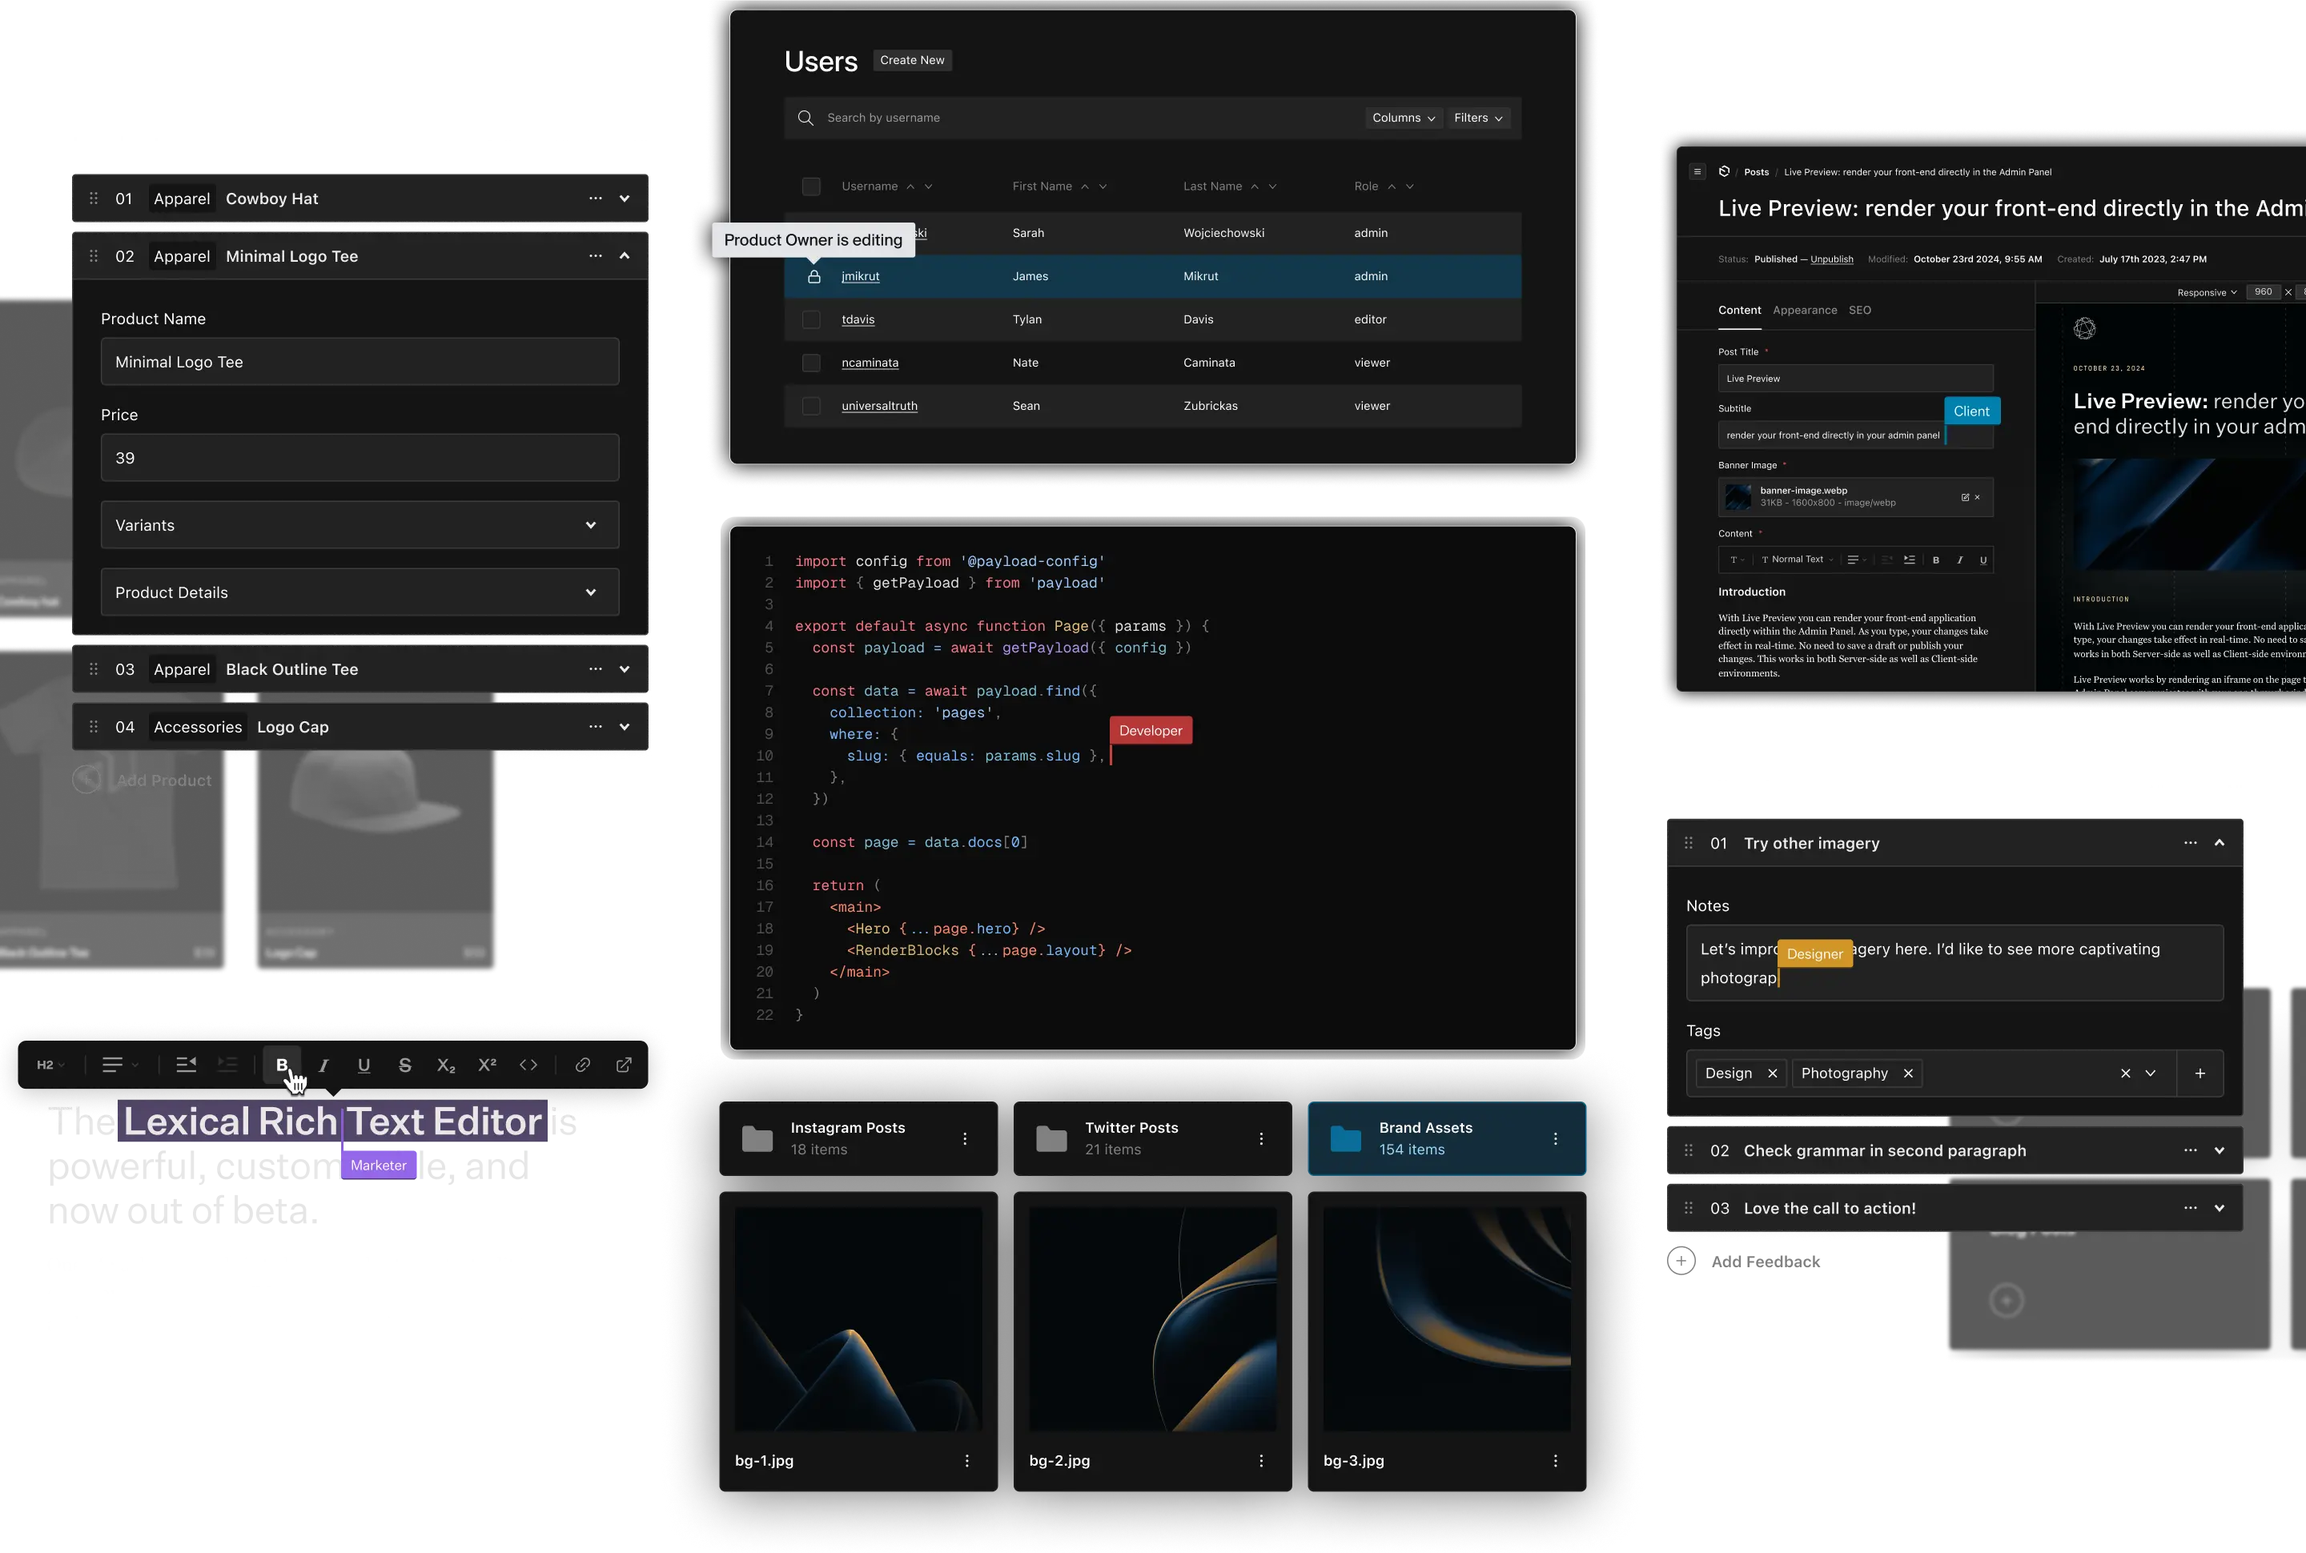
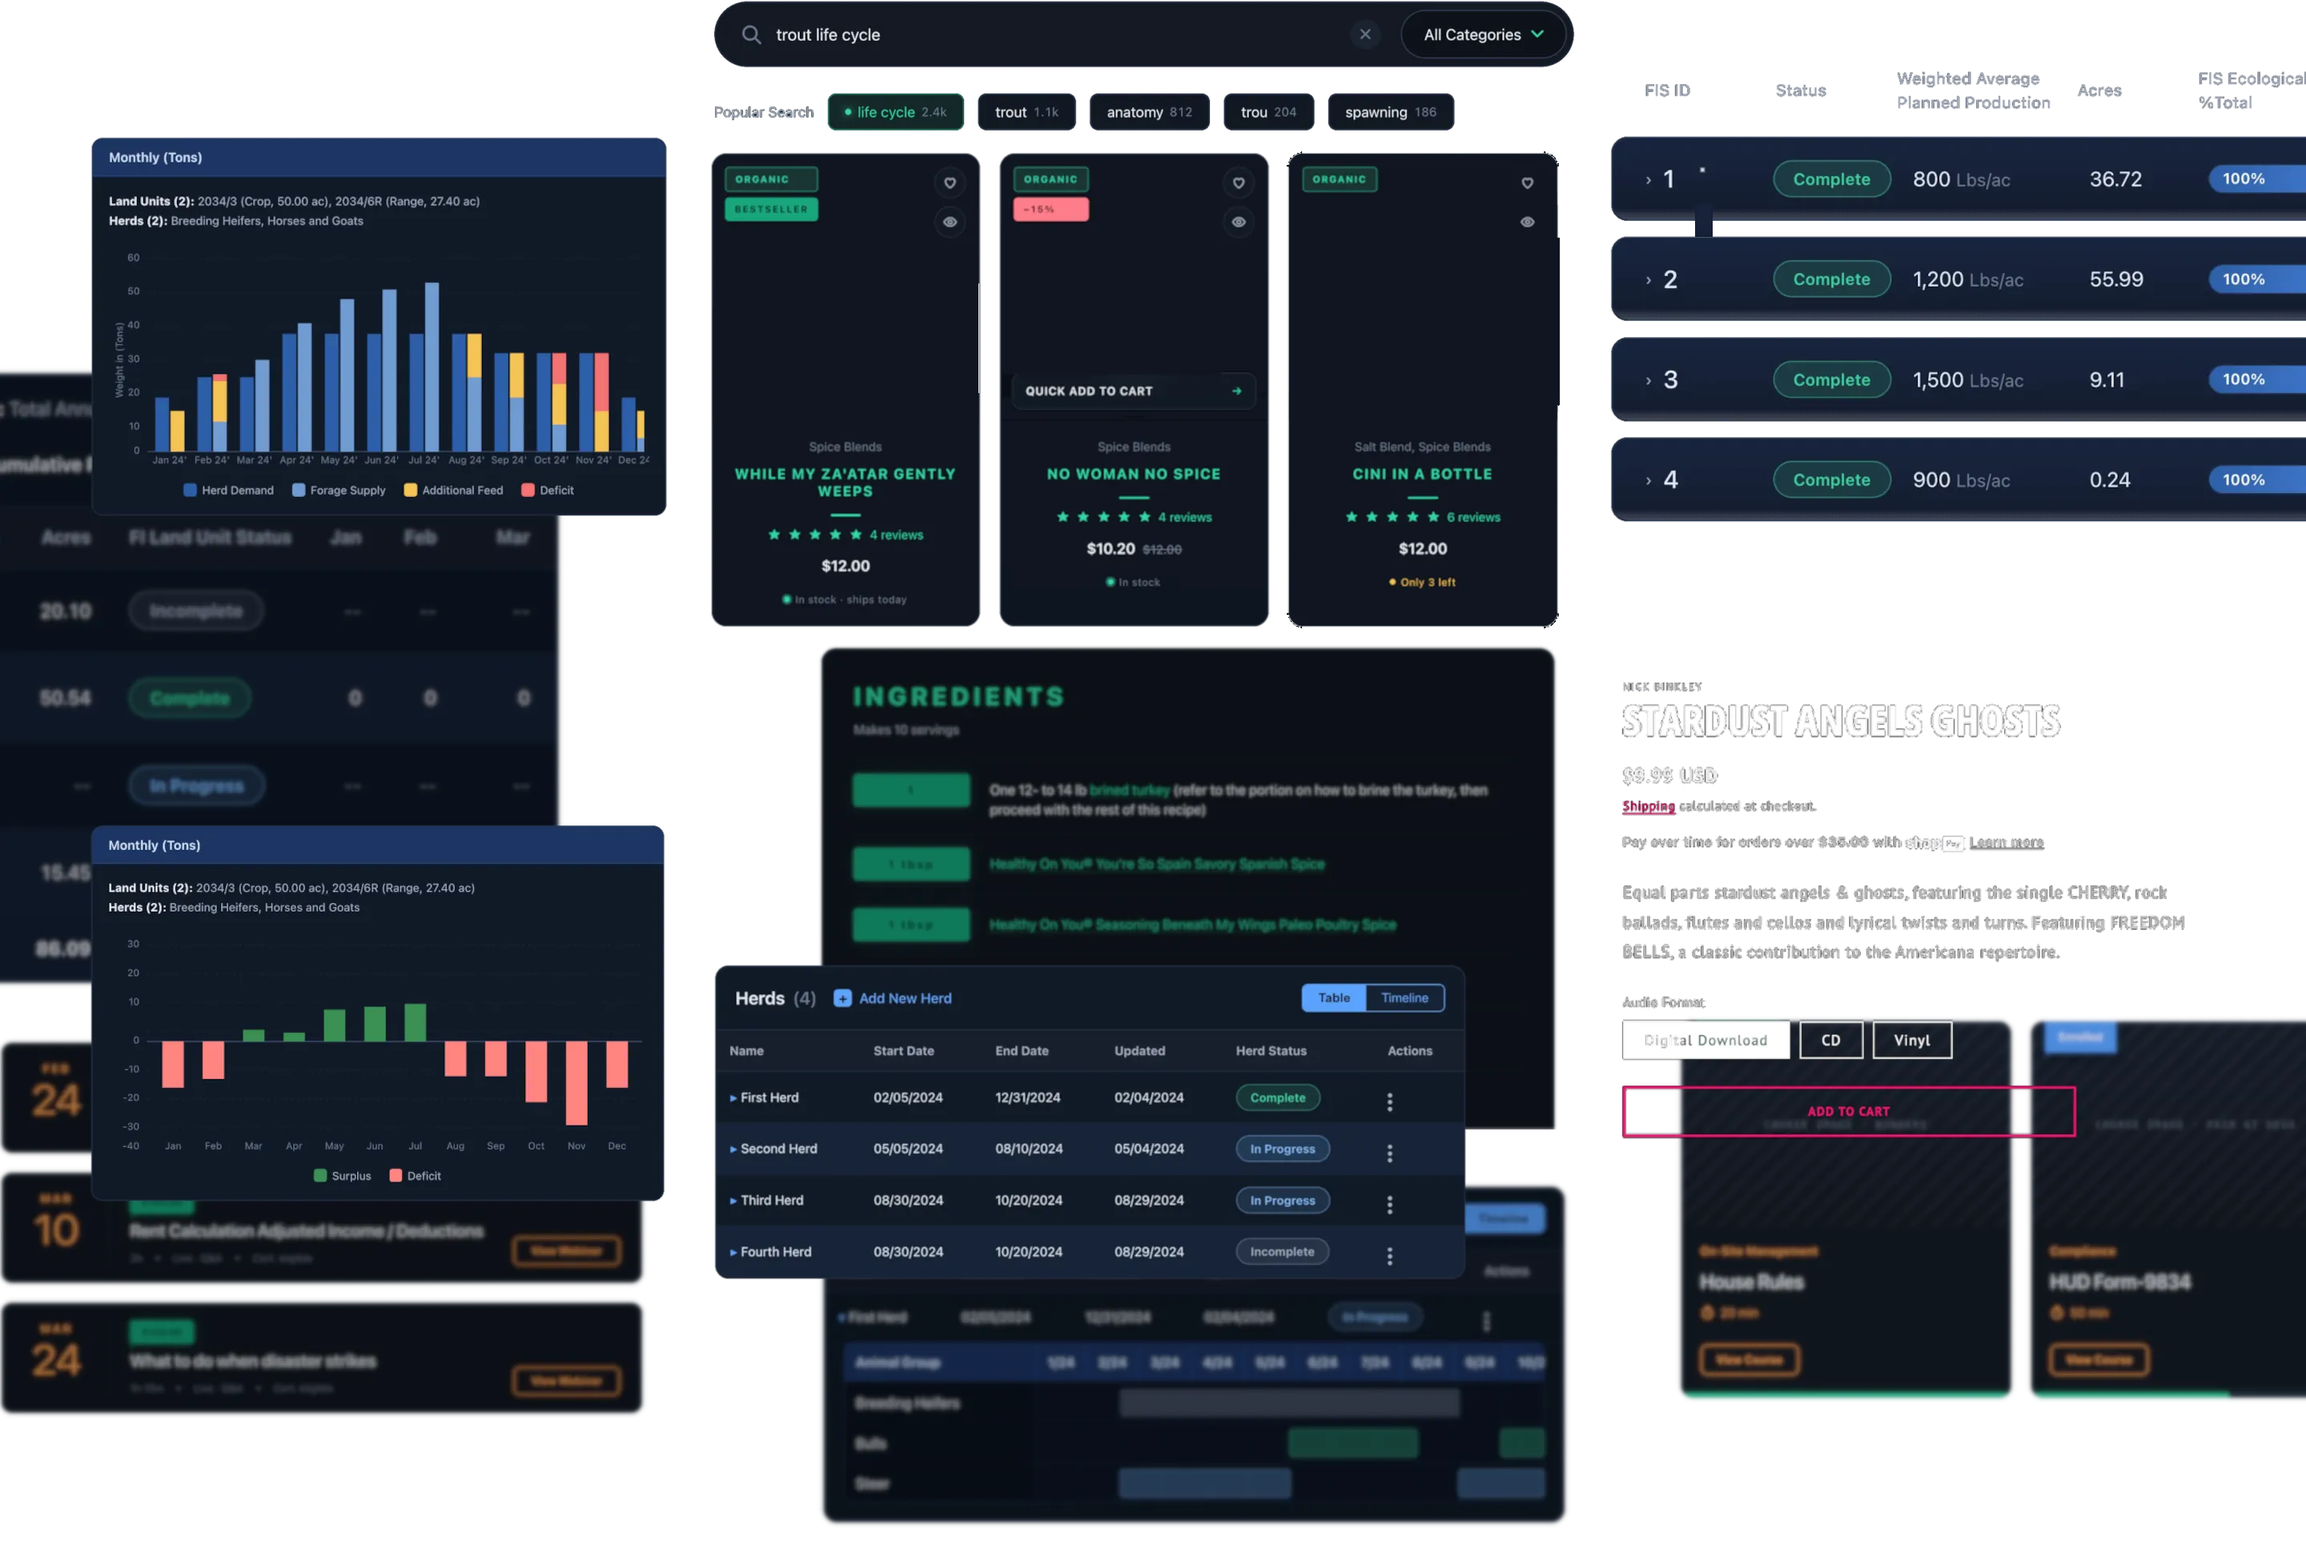
Add new imagery and media, fixing copywriting focus, adds honeypot to form for bot protection.

diff --git a/src/app/(homepage)/page.tsx b/src/app/(homepage)/page.tsx
@@ -24,8 +24,8 @@ export default function Home() {
 							<HeroHeadlineGSAPTyping />
 						</h1>
 						<p className='bg-stipple text-xl guide-lines md:text-3xl lg:text-[2vw] xl:text-4xl p-[0.5rem]'>
-							A technical product manager and frontend engineer passionate about
-							strategic UX and high-impact UI that actually moves the needle.
+							A product engineer passionate about strategic UX, high-impact UI,
+							and shipping code that actually moves the needle.
 						</p>
 					</div>
 					<div className='w-full lg:w-[50%] pt-12 pb-24'>
@@ -34,16 +34,17 @@ export default function Home() {
 							layout='right'
 							images={[
 								{
-									src: '/hero-top.webp',
+									src: '/projects/cx3/cx3-hero-a.jpg',
+
 									alt: 'Hero image of Justin McKee',
-									width: 3200,
-									height: 1915,
+									width: 1920,
+									height: 1343,
 								},
 								{
-									src: '/hero-bottom.webp',
+									src: '/projects/tic/tic-hero.webp',
 									alt: 'Hero image of Justin McKee',
-									width: 3200,
-									height: 1973,
+									width: 1920,
+									height: 1343,
 								},
 							]}
 						/>
@@ -54,10 +55,13 @@ export default function Home() {
 				id='about'
 				className='site-section max-w-9xl w-full flex-col pb-10 xl:pb-35 z-[5]'>
 				<div className='w-full max-w-5xl mx-auto'>
-					<p className=' text-lg md:text-xl xl:text-3xl text-center p-[0.5rem]'>
-						I craft immersive user experiences, dashboards, eCommerce
-						storefronts, and more.
-						<br />I do it with a modern tech stack.
+					<p className='text-lg md:text-xl xl:text-2xl text-center p-[0.5rem]'>
+						I turn ideas and data into clear UX flows, polished UI, and
+						maintainable code - dashboards, eCommerce storefronts, and immersive
+						product surfaces that grow with your business.
+					</p>
+					<p className='text-lg md:text-xl xl:text-2xl text-center p-[0.5rem]'>
+						Built with a modern stack that scales with your team and product.
 					</p>
 					<LogoGrid />
 				</div>
@@ -66,7 +70,7 @@ export default function Home() {
 				<div className='bg-hatch h-[100%] mt-[-0.5rem] p-[1rem]'>
 					<h2
 						className={`text-5xl md:fluid-font xl:text-6xl md:h1 mb-[0.5rem] ${styles['font-gradient']}`}>
-						Ship
+						I Ship
 						<br />
 						what
 						<br />
@@ -80,10 +84,11 @@ export default function Home() {
 				<div>
 					<p className='text-xl text-justify hyphens-auto'>
 						I've spent over a decade helping teams build better products by
-						standardizing frontend patterns and driving alignment between
-						technical execution and product goals. I enable teams to ship high
-						performance interfaces, scale and stabilize growing codebases, and
-						turn messy requirements into clean, shipped features.
+						improving design-to-tech processes and standardizing frontend
+						patterns. Driving the alignment between design, technical execution,
+						and product goals, I enable teams to ship high-performance
+						interfaces, scale and stabilize growing codebases, and turn messy
+						requirements into shipped features.
 					</p>
 				</div>
 

diff --git a/src/app/_components/WorkCategoriesGSAPSection/WorkCategoriesGSAPSection.tsx b/src/app/_components/WorkCategoriesGSAPSection/WorkCategoriesGSAPSection.tsx
@@ -112,14 +112,14 @@ export default function WorkCategoriesGSAPSection() {
 					</div> */}
 					</div>
 					<div
-						className={`${styles['content-outputs']} gsap-categories__data-binding__outputs ${styles['media-stacks-wrapper']} !hidden md:!block`}>
+						className={`${styles['content-outputs']} gsap-categories__data-binding__outputs ${styles['media-stacks-wrapper']} !hidden md:!grid`}>
 						<div
 							className={`${styles['media-stack']}`}
 							data-bind-output='component-libraries'>
 							<div className={`${styles['media-top']}`}>
 								<div className={`${styles['media-wrapper']}`}>
 									<Image
-										src='/hh-etb-01-new-dark.webp'
+										src='/design-system-color-tokens.webp'
 										alt='Component Libraries'
 										width={1200}
 										height={1012}
@@ -130,7 +130,7 @@ export default function WorkCategoriesGSAPSection() {
 							<div className={`${styles['media-bottom']}`}>
 								<div className={`${styles['media-wrapper']}`}>
 									<Image
-										src='/hh-etb-02-new-dark.png'
+										src='/design-system-components.webp'
 										alt='Component Libraries'
 										width={1800}
 										height={1500}
@@ -145,7 +145,7 @@ export default function WorkCategoriesGSAPSection() {
 							<div className={`${styles['media-top']}`}>
 								<div className={`${styles['media-wrapper']}`}>
 									<Image
-										src='/hh-ecom-1-new-dark-1.png'
+										src='/app-a.webp'
 										alt='Web Applications'
 										width={1800}
 										height={1587}
@@ -156,7 +156,7 @@ export default function WorkCategoriesGSAPSection() {
 							<div className={`${styles['media-bottom']}`}>
 								<div className={`${styles['media-wrapper']}`}>
 									<Image
-										src='/hh-ecom-2-new-1.webp'
+										src='/app-b.webp'
 										alt='Component Libraries'
 										width={1800}
 										height={1587}
@@ -171,7 +171,7 @@ export default function WorkCategoriesGSAPSection() {
 							<div className={`${styles['media-top']}`}>
 								<div className={`${styles['media-wrapper']}`}>
 									<Image
-										src='/hh-cms-new-1.webp'
+										src='/web-cms.webp'
 										alt='Websites'
 										width={1080}
 										height={864}

diff --git a/src/ui/Footer/Footer.tsx b/src/ui/Footer/Footer.tsx
@@ -97,20 +97,21 @@ export const Footer = () => {
 								Solutions that scale with your business.
 							</h2>
 							<p>
-								I consult on technical product strategy and UX direction, and
-								lead architecture engagements that transform complexity into
-								scalable products - helping businesses grow.
+								I consult on technical product strategy, UX direction, and lead
+								architecture engagements that transform complexity into scalable
+								products - helping businesses grow.
 							</p>
 							<p>
-								If you need hands-on delivery, I contract as a builder to ship
-								frontends, workflows, and search-optimized foundations that
-								improve a business's digital footprint.
+								I also handle the design-to-tech stage of projects: UX flows, UI
+								and system design, and building production frontends with
+								minimal handoffs.
 							</p>
 							<p>
-								Across both, I focus on creating fast experiences, maintainable
-								code, and room to scale.
+								Engage me for consulting and architecture, or bring me in as a
+								contracted builder to ship fast experiences, maintainable code,
+								and scalable foundations.
 							</p>
-							<p>I'm open to new opportunities and collaborations.</p>
+							<p>Always open to new opportunities and collaborations.</p>
 						</div>
 						<div>
 							{state.ok ? (
@@ -126,6 +127,18 @@ export const Footer = () => {
 								<form
 									action={formAction}
 									className='flex flex-col space-y-6 bg-hatch p-6'>
+									<div className='sr-only'>
+										<label htmlFor='companyWebsite'>Title</label>
+										<input
+											id='title'
+											name='title'
+											type='text'
+											autoComplete='off'
+											tabIndex={-1}
+											aria-hidden='true'
+											placeholder='Your title'
+										/>
+									</div>
 									{state.error ? (
 										<p className='rounded-md border border-red-500/40 bg-red-500/10 px-3 py-2 text-sm text-red-200'>
 											{state.error}

diff --git a/src/app/actions/forms.ts b/src/app/actions/forms.ts
@@ -20,6 +20,14 @@ export async function submitFooterForm(
 	const email = String(formData.get('email') || '').trim();
 	const heard = String(formData.get('heard') || '').trim();
 	const message = String(formData.get('message') || '').trim();
+	const title = String(formData.get('title') || '').trim();
+
+	if (title) {
+		return {
+			ok: false,
+			error: 'Unable to submit. Please try again.',
+		};
+	}
 
 	if (!name || !email || !heard || !message) {
 		return {

diff --git a/src/ui/header/header.tsx b/src/ui/header/header.tsx
@@ -4,7 +4,7 @@ export const Header = () => {
 	return (
 		<header
 			className={`${styles['blurred-pseudo-bg']} w-full fixed top-0 left-0 z-50 backdrop-blur-md shadow-md px-2`}>
-			<nav className='max-w-9xl mx-auto py-4 grid grid-cols-16 grid-rows-1'>
+			<nav className='max-w-9xl mx-auto py-1 grid grid-cols-16 grid-rows-1'>
 				<div className='col-span-4 col-start-1'>
 					<Link
 						href='/'

diff --git a/src/app/_components/MottoTaglineSection/MottoTaglineSection.tsx b/src/app/_components/MottoTaglineSection/MottoTaglineSection.tsx
@@ -19,7 +19,7 @@ export const MottoTaglineSection = () => {
 				<div className='headline w-full mx-auto mb-25 center py-12'>
 					<HeadlineGSAPFollowMouse />
 				</div>
-				<div className='relative !w-[150vw] full-bleed collage-image'>
+				<div className='relative max-md:!w-[150vw] full-bleed collage-image'>
 					<Image
 						src='/collage.webp'
 						alt='Work collage'

diff --git a/src/app/_components/WorkCategoriesGSAPSection/styles.module.scss b/src/app/_components/WorkCategoriesGSAPSection/styles.module.scss
@@ -154,11 +154,11 @@
 			// transform: translate(30%, -15%);
 			z-index: 1;
 		}
-		.media-bottom {
-			img {
-				filter: contrast(0.8) grayscale(0.8);
-			}
-		}
+		// .media-bottom {
+		// 	img {
+		// 		filter: contrast(0.8) grayscale(0.8);
+		// 	}
+		// }
 	}
 }
 
